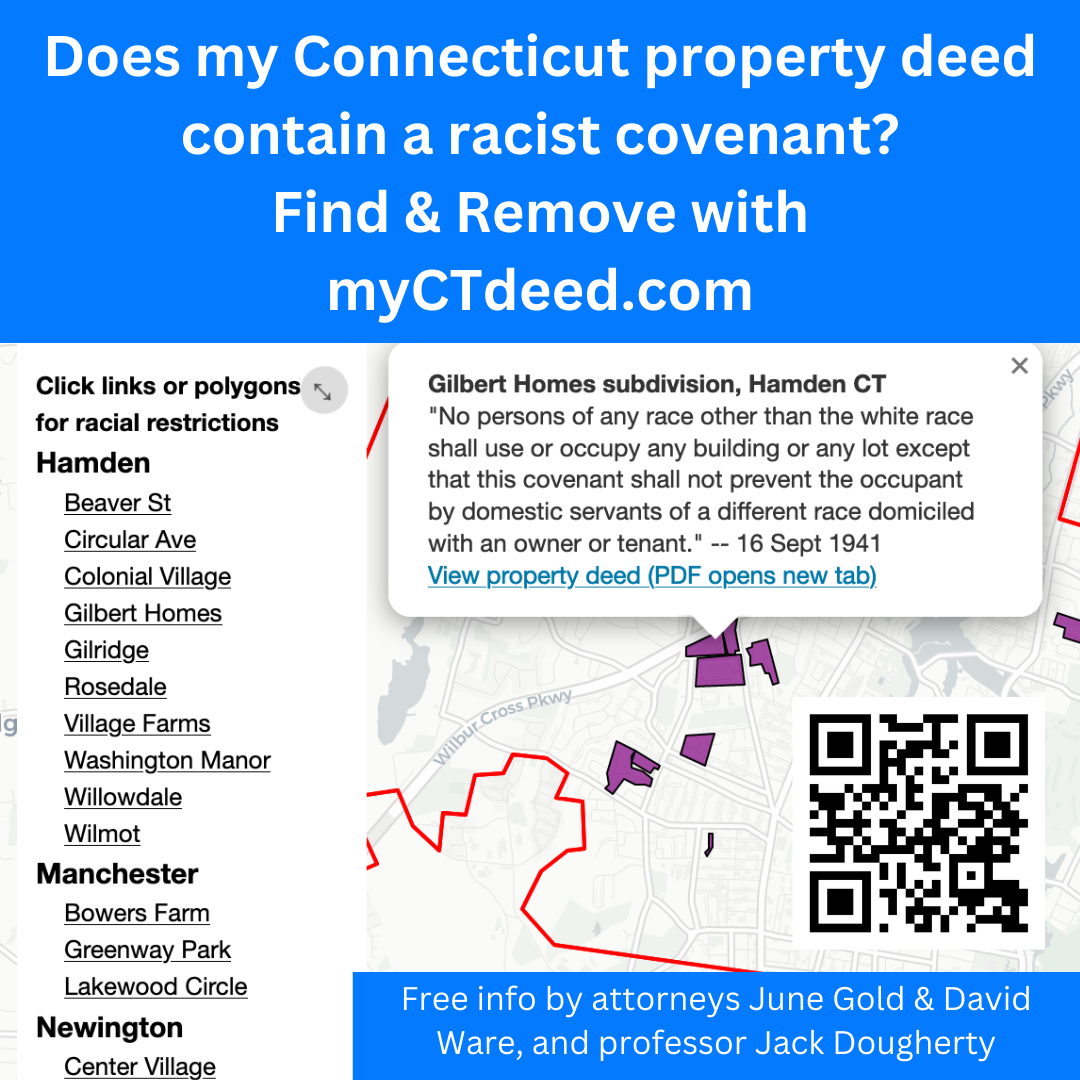
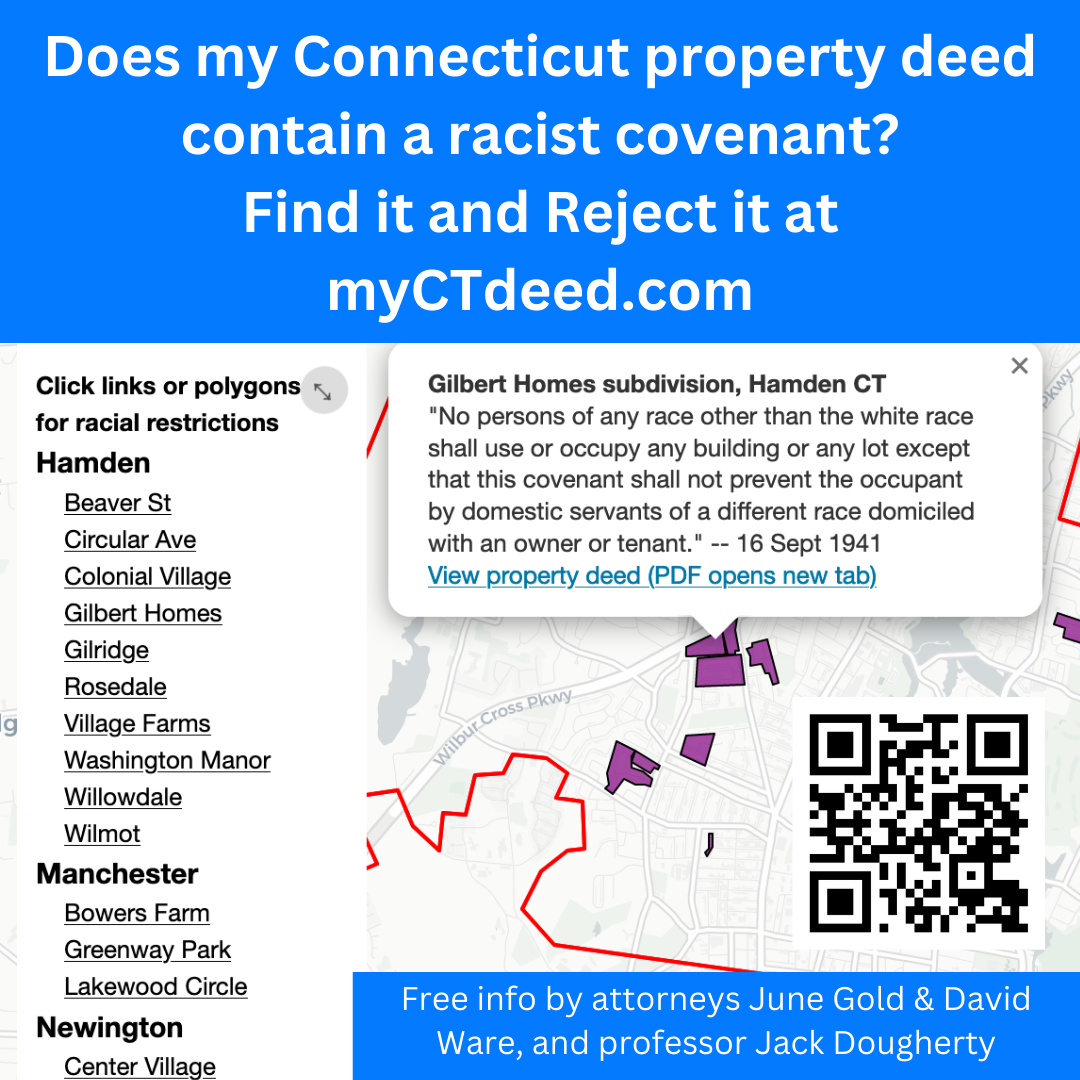
switched Remove to Reject

Changed region(s): [[0.2139, 0.1528, 0.7944, 0.2444]]

diff --git a/index.html b/index.html
@@ -36,7 +36,7 @@
             <a class="nav-link js-scroll-trigger" href="#section1">Find</a>
           </li>
           <li class="nav-item">
-            <a class="nav-link js-scroll-trigger" href="#section2">Remove</a>
+            <a class="nav-link js-scroll-trigger" href="#section2">Reject</a>
           </li>
           <li class="nav-item">
             <a class="nav-link js-scroll-trigger" href="#section3">Learn</a>
@@ -58,7 +58,7 @@
 
       <p class="lead">
         <a href="#section1">Find</a> your property deed</br>
-        <a href="#section2">Remove</a> an unlawful covenant</br>
+        <a href="#section2">Reject</a> an unlawful covenant</br>
         <a href="#section3">Learn</a> about history and advocacy</br>
         <a href="#section4">Contact</a> us with questions or volunteer</br>
       </p>
@@ -98,8 +98,8 @@
     <div class="container">
       <div class="row">
         <div class="col-lg-8 mx-auto">
-          <h2>Remove an Unlawful Covenant</h2>
-          <p>Under Connecticut Public Act 2021-173, each Town Clerk must post these forms, both on their website and inside the land records office, to allow property owners to remove (or technically, to "renounce") unlawful covenants, <b>free of charge</b>. Property owners may fill out and submit <b>either form below</b>:
+          <h2>Reject an Unlawful Covenant</h2>
+          <p>Under Connecticut Public Act 2021-173, each Town Clerk must post these forms, both on their website and inside the land records office, to allow property owners to reject (or legally, to "renounce") unlawful covenants, <b>free of charge</b>. Property owners may fill out and submit <b>either form below</b>:
 
           <div class="container">
             <div class="row">
